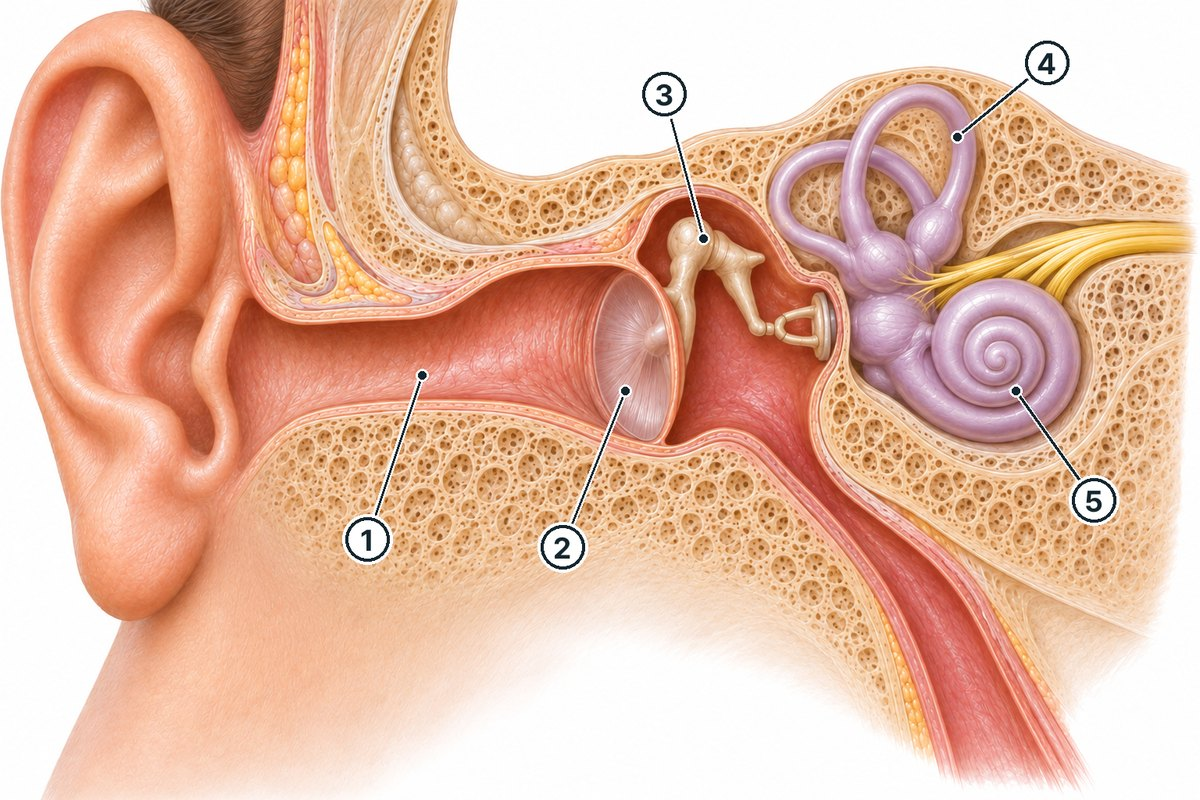
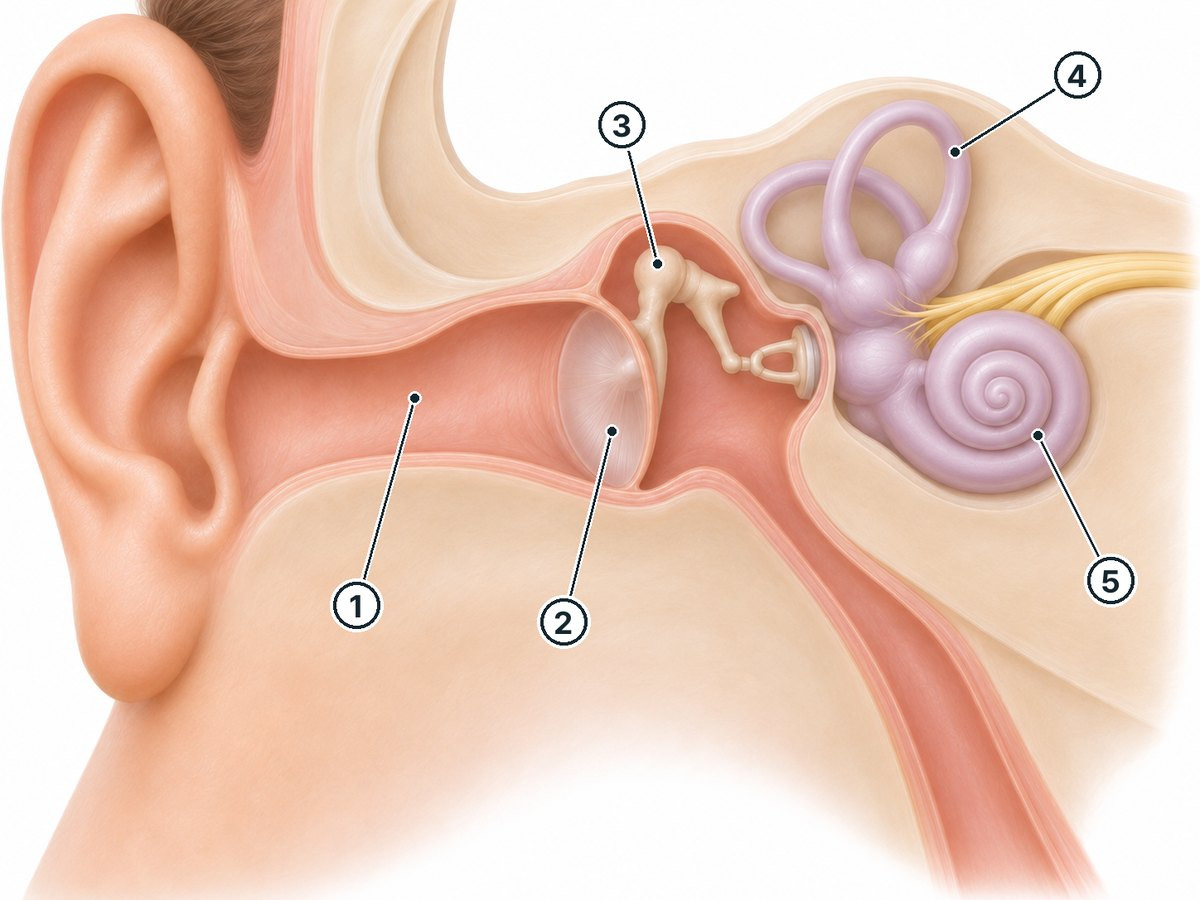
어지러움 쪽 귀 단면 그림을 부드러운 사실풍으로 교체
- 원장 의견: 이전 그림이 너무 강렬함 → 귀 증상 쪽 그림(ear-tmj.jpg) 화풍에 맞춰 다시 그림
- 구도와 번호 점 다섯 개는 그대로, 그림 비율 4:3으로 바뀌어 높이 값 수정

diff --git a/sym-dizzy.html b/sym-dizzy.html
@@ -563,7 +563,7 @@ section.refs{border-top:1px solid var(--line);padding-top:28px;padding-bottom:36
           <p>턱관절 장애가 있는 사람은 편두통이 있을 가능성이 2.6배가량 높았습니다.<sup class="cite">9</sup> 편두통이 있으면 두통이 없을 때에도 어지러움이 되풀이될 수 있습니다. 이를 전정편두통이라고 합니다.<sup class="cite">16, 17</sup></p></div>
       </div>
       <div class="figbox ear-link reveal">
-        <img src="img/dizzy-section.jpg" alt="귀를 앞에서 잘라 본 그림. 귓구멍 끝에 고막과 귓속뼈가 있고, 그 안쪽 속귀에 균형을 맡는 반고리관과 소리를 듣는 달팽이관이 있습니다." loading="lazy" width="1200" height="800">
+        <img src="img/dizzy-section.jpg" alt="귀를 앞에서 잘라 본 그림. 귓구멍 끝에 고막과 귓속뼈가 있고, 그 안쪽 속귀에 균형을 맡는 반고리관과 소리를 듣는 달팽이관이 있습니다." loading="lazy" width="1200" height="900">
         <ol class="fig-legend">
           <li><span class="n">1</span><span><b>귓구멍</b>턱관절은 이 바로 앞에 있습니다</span></li>
           <li><span class="n">2</span><span><b>고막</b>귓구멍 끝의 얇은 막</span></li>
